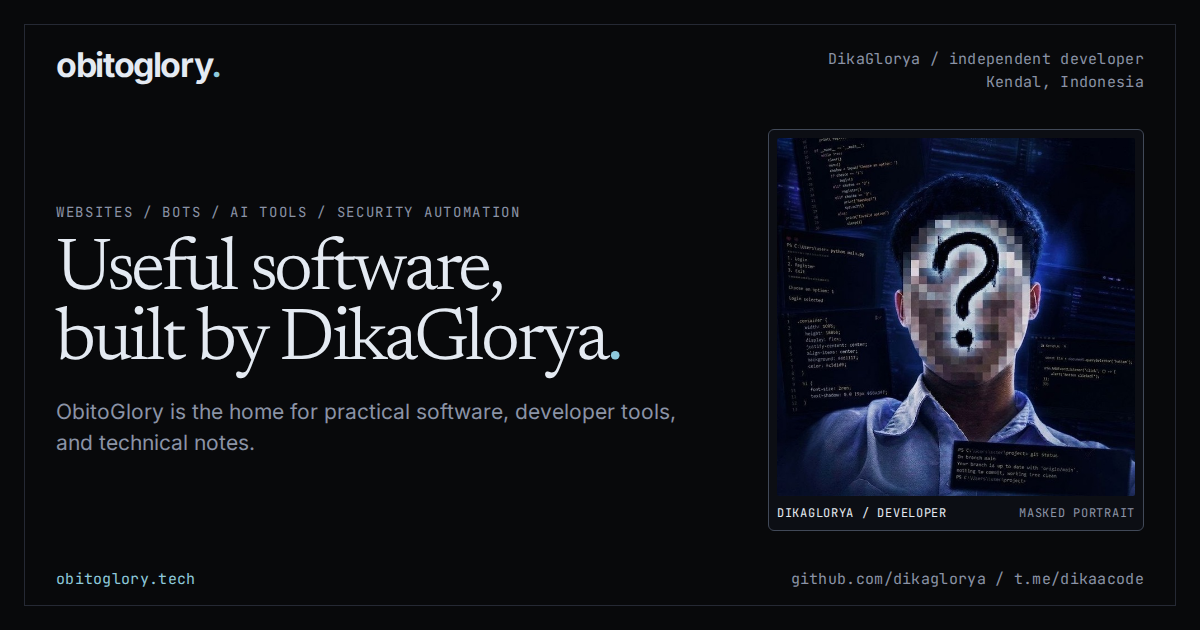
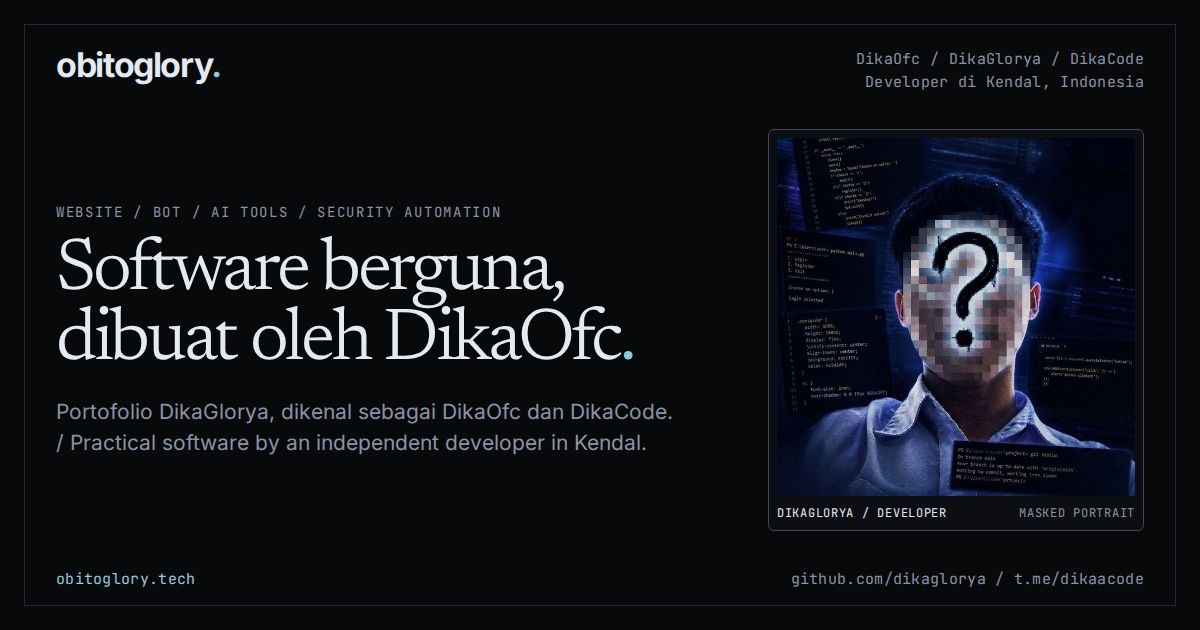
Lead the social card with DikaOfc identity
The OG card is the one asset that appears every time a link is shared, and
it was still entirely English and never named DikaOfc. The card now carries
the DikaOfc handle, an Indonesian headline, and a paired English line, so the
shared preview matches the bilingual site. og:image:alt is updated to describe
the card it actually describes.

Changed region(s): [[0.0308, 0.3016, 0.5242, 0.6032], [0.0308, 0.6333, 0.555, 0.7238], [0.6783, 0.0603, 0.9558, 0.1508]]

diff --git a/src/data/site.ts b/src/data/site.ts
@@ -35,7 +35,7 @@ export const site = {
   lang: 'id',
   ogImage: '/og-default.png',
   ogImageAlt:
-    'Masked portrait of DikaGlorya on a dark ObitoGlory social card with the wordmark and the line "Useful software, built by DikaGlorya."',
+    'Masked portrait of DikaGlorya on a dark ObitoGlory social card naming DikaOfc, with the line "Software berguna, dibuat oleh DikaOfc."',
   profileImage: '/profile-portrait.jpg',
   availability: 'Open for selected projects',
   availabilityNote: 'Telegram is the fastest way to reach me.',
